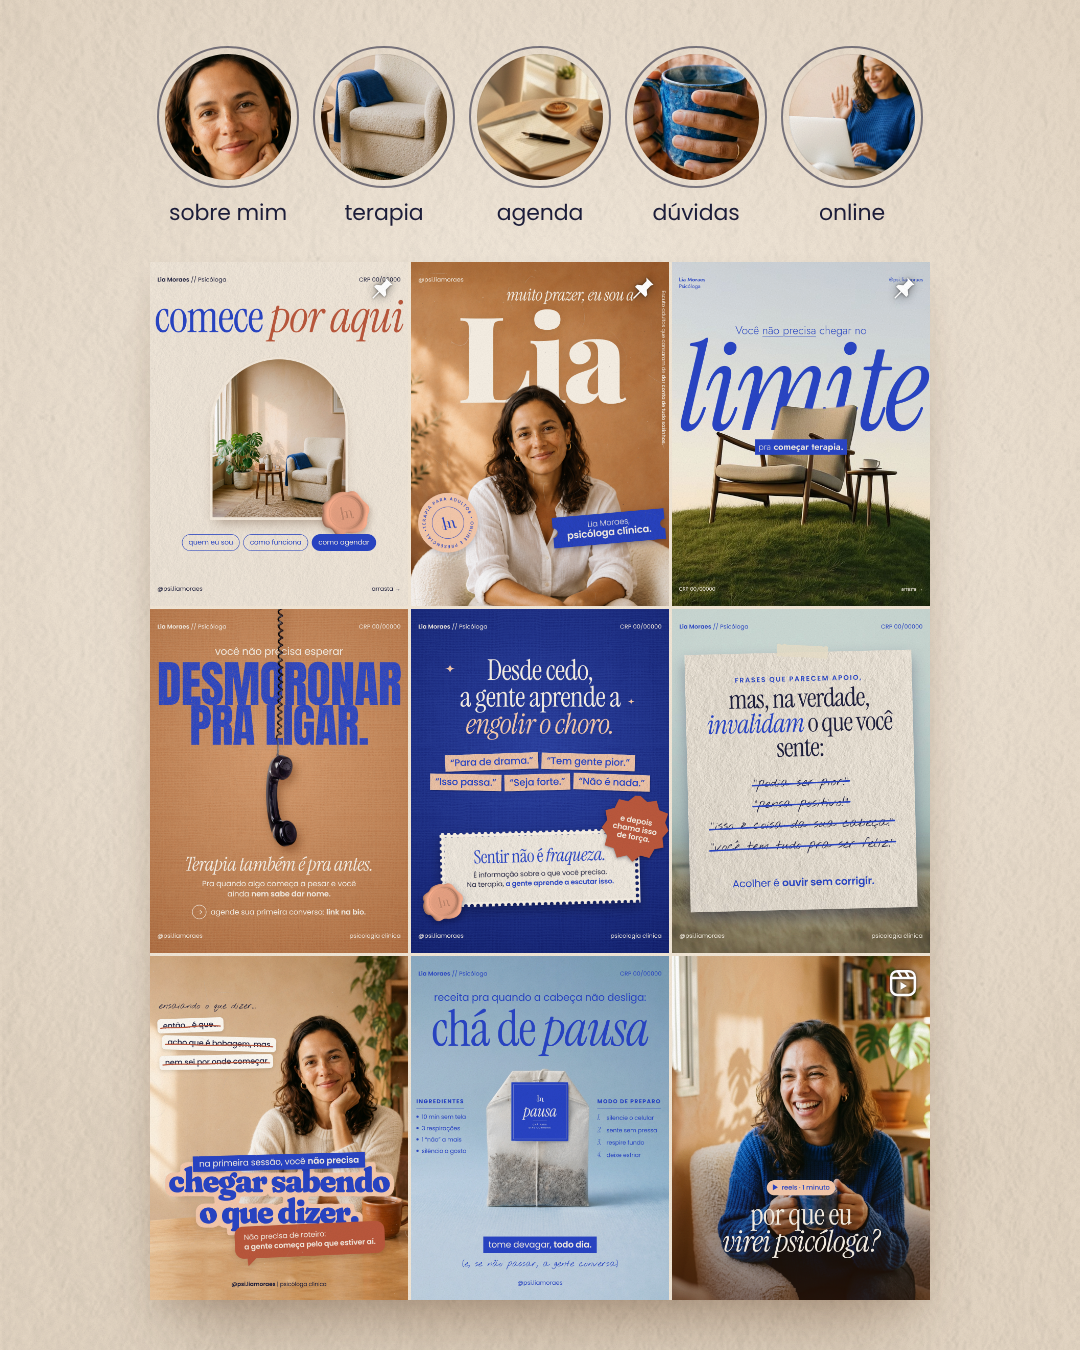
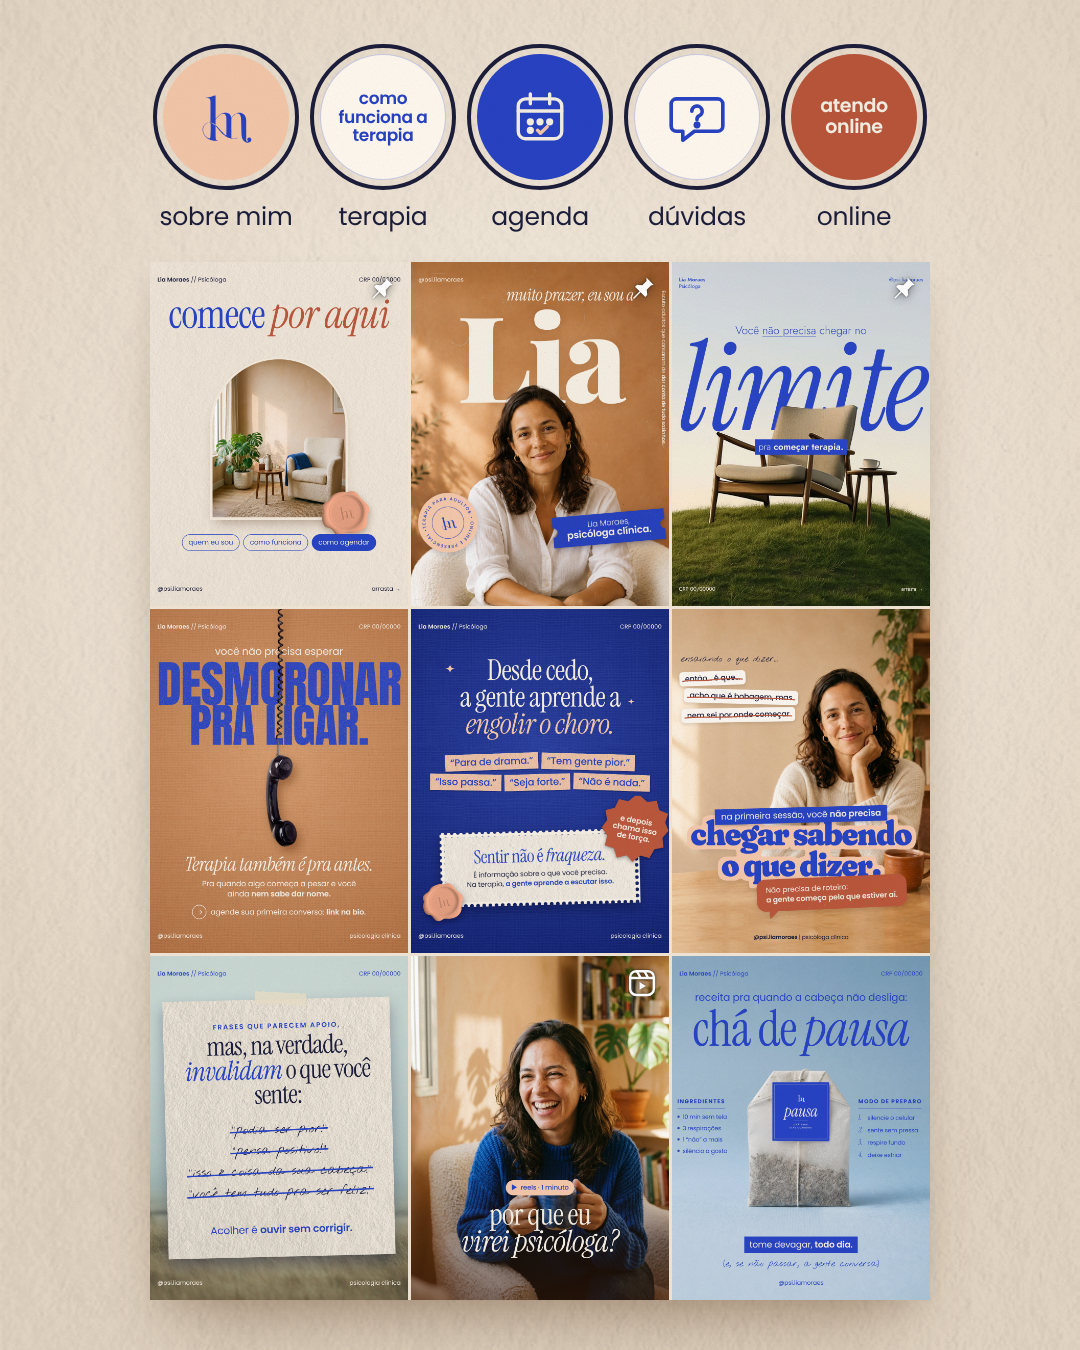
Lia Moraes: feed com destaques do modelo anterior e quadros trocados (chegar sabendo <-> bilhete, reels <-> chá)
Claude-Session: https://claude.ai/code/session_01CmCiK8Gv7bd1khyaxwEQLc

Changed region(s): [[0.1222, 0.4356, 0.8861, 0.9644], [0.1222, 0.0311, 0.8556, 0.1867], [0.1528, 0.2178, 0.3667, 0.2489]]

diff --git a/psicologa-lia-moraes/projeto/feed/feed.html b/psicologa-lia-moraes/projeto/feed/feed.html
@@ -9,10 +9,10 @@ body{background:#777;padding:20px}
 .luz{position:absolute;inset:0;background:radial-gradient(70% 55% at 50% 40%,rgba(255,250,242,.55),rgba(120,80,40,.10))}
 .abs{position:absolute}
 .js{font-family:Poppins;letter-spacing:-.01em}
-.dest{position:absolute;top:46px;width:160px;margin-left:-80px;text-align:center}
-.dest .anel{width:142px;height:142px;border-radius:50%;border:2px solid rgba(28,29,58,.55);padding:6px;margin:0 auto}
-.dest .miolo{width:100%;height:100%;border-radius:50%;overflow:hidden;background-repeat:no-repeat;box-shadow:inset 0 0 0 1px rgba(0,0,0,.06)}
-.dest .nome{font:400 22px/1 Poppins;color:var(--tinta);margin-top:14px;letter-spacing:-.005em}
+.dest{position:absolute;top:44px;width:150px;margin-left:-75px;text-align:center}
+.dest .anel{width:146px;height:146px;border-radius:50%;border:4px solid var(--tinta);padding:6px;margin:0 auto}
+.dest .miolo{width:100%;height:100%;border-radius:50%;display:grid;place-items:center;overflow:hidden}
+.dest .nome{font:400 25px/1 Poppins;color:var(--tinta);margin-top:14px;letter-spacing:-.01em}
 .grade{position:absolute;left:150px;top:262px;display:grid;grid-template-columns:repeat(3,258px);grid-auto-rows:344px;gap:3px;background:#F1E6D6;
  box-shadow:0 50px 70px -30px rgba(90,55,25,.35),0 14px 30px -10px rgba(90,55,25,.18)}
 .q{position:relative;overflow:hidden;background:#ddd}
@@ -29,12 +29,16 @@ body{background:#777;padding:20px}
 
 <div class="art" id="feed">
   <div class="papel"></div><div class="luz"></div>
-  <!-- destaques (fotos da marca, mesmo tratamento quente) -->
-  <div class="dest" style="left:228px"><div class="anel"><div class="miolo" style="background-image:url(../ia/lia-canva-mesa.png);background-size:404px auto;background-position:-193px -118px"></div></div><div class="nome">sobre mim</div></div>
-  <div class="dest" style="left:384px"><div class="anel"><div class="miolo" style="background-image:url(../ia/consultorio-v1.png);background-size:300px auto;background-position:-150px -205px"></div></div><div class="nome">terapia</div></div>
-  <div class="dest" style="left:540px"><div class="anel"><div class="miolo" style="background-image:url(../fotos-pinterest/base/mesinha-caderno.jpg);background-size:266px auto;background-position:-60px -128px"></div></div><div class="nome">agenda</div></div>
-  <div class="dest" style="left:696px"><div class="anel"><div class="miolo" style="background-image:url(../ia/caneca-v1.png);background-size:258px auto;background-position:-63px -105px"></div></div><div class="nome">dúvidas</div></div>
-  <div class="dest" style="left:852px"><div class="anel"><div class="miolo" style="background-image:url(../ia/lia-online-v1.png);background-size:230px auto;background-position:-34px -110px"></div></div><div class="nome">online</div></div>
+  <!-- destaques -->
+  <div class="dest" style="left:226px"><div class="anel"><div class="miolo" style="background:var(--p)"><img src="../logo/final/lia-moraes-monograma.svg" style="width:62px;margin-top:4px"></div></div><div class="nome">sobre mim</div></div>
+  <div class="dest" style="left:383px"><div class="anel"><div class="miolo" style="background:#fff8ee;border:1.5px solid rgba(39,66,194,.25)"><div class="js" style="font:600 17px/1.08 Poppins;color:var(--c);letter-spacing:-.02em">como<br>funciona a<br>terapia</div></div></div><div class="nome">terapia</div></div>
+  <div class="dest" style="left:540px"><div class="anel"><div class="miolo" style="background:var(--c)">
+    <svg width="58" height="58" viewBox="0 0 48 48" fill="none" stroke="#F5EEE3" stroke-width="2.8" stroke-linecap="round" stroke-linejoin="round"><rect x="6" y="9" width="36" height="33" rx="6"/><path d="M6 19h36M16 5v8M32 5v8"/><circle cx="16" cy="28" r="1.6" fill="#F5EEE3"/><circle cx="24" cy="28" r="1.6" fill="#F5EEE3"/><circle cx="32" cy="28" r="1.6" fill="#F5EEE3"/><circle cx="16" cy="35" r="1.6" fill="#F5EEE3"/><path d="M22 35l2.4 2.4L30 32" stroke="#F3C6A8"/></svg>
+  </div></div><div class="nome">agenda</div></div>
+  <div class="dest" style="left:697px"><div class="anel"><div class="miolo" style="background:#fff8ee;border:1.5px solid rgba(39,66,194,.25)">
+    <svg width="62" height="62" viewBox="0 0 48 48" fill="none" stroke="#2742C2" stroke-width="2.8" stroke-linecap="round" stroke-linejoin="round"><path d="M8 10h32a4 4 0 0 1 4 4v17a4 4 0 0 1-4 4H22l-9 7v-7H8a4 4 0 0 1-4-4V14a4 4 0 0 1 4-4z"/><path d="M20 19.5a4 4 0 1 1 5.6 3.7c-1 .5-1.6 1.3-1.6 2.4v.6"/><circle cx="24" cy="30.2" r="1.3" fill="#2742C2"/></svg>
+  </div></div><div class="nome">dúvidas</div></div>
+  <div class="dest" style="left:854px"><div class="anel"><div class="miolo" style="background:var(--t)"><div class="js" style="font:600 19px/1.08 Poppins;color:var(--creme);letter-spacing:-.02em">atendo<br>online</div></div></div><div class="nome">online</div></div>
 
   <!-- grade 3x3 (recorte 3:4 da grade do Instagram) -->
   <div class="grade">
@@ -43,10 +47,10 @@ body{background:#777;padding:20px}
     <div class="q"><img class="f" src="../posts/carrossel-v3/s1.png"><svg class="ico"><use href="#i-pin"/></svg></div>
     <div class="q"><img class="f" src="../posts/posts-v5/p3.png"></div>
     <div class="q"><img class="f" src="../posts/posts-v5/p6.png"></div>
-    <div class="q"><img class="f" src="../posts/posts-v5/p2.png"></div>
     <div class="q"><img class="f" src="../posts/posts-v5/p5.png"></div>
-    <div class="q"><img class="f" src="../posts/posts-v5/p4.png"></div>
+    <div class="q"><img class="f" src="../posts/posts-v5/p2.png"></div>
     <div class="q"><img class="f" src="pecas/reel.png"><svg class="ico"><use href="#i-reel"/></svg></div>
+    <div class="q"><img class="f" src="../posts/posts-v5/p4.png"></div>
   </div>
   <div class="grao"></div>
 </div>

diff --git a/psicologa-lia-moraes/projeto/feed/pecas.html b/psicologa-lia-moraes/projeto/feed/pecas.html
@@ -21,7 +21,7 @@ body{background:#777;padding:20px;display:flex;gap:20px}
   <div class="abs" style="inset:0;background:url(../fotos-pinterest/colagem/papel-fibra.jpg) center/cover;mix-blend-mode:multiply;opacity:.5"></div>
   <div class="cab topo" style="color:var(--tinta)"><span><b>Lia Moraes</b> // Psicóloga</span><span>CRP 00/00000</span></div>
   <div class="abs" style="left:0;right:0;top:138px;text-align:center">
-    <div class="is" style="font-size:178px;line-height:.86">comece <i style="color:var(--t)">por aqui</i></div>
+    <div class="is" style="font-size:158px;line-height:.86">comece <i style="color:var(--t)">por aqui</i></div>
   </div>
   <div class="abs" style="left:270px;top:372px;width:540px;height:640px;border-radius:270px 270px 0 0;overflow:hidden;box-shadow:0 30px 50px -24px rgba(80,45,20,.45)">
     <img src="../ia/consultorio-v1.png" style="width:100%;height:100%;object-fit:cover;object-position:62% 70%">
